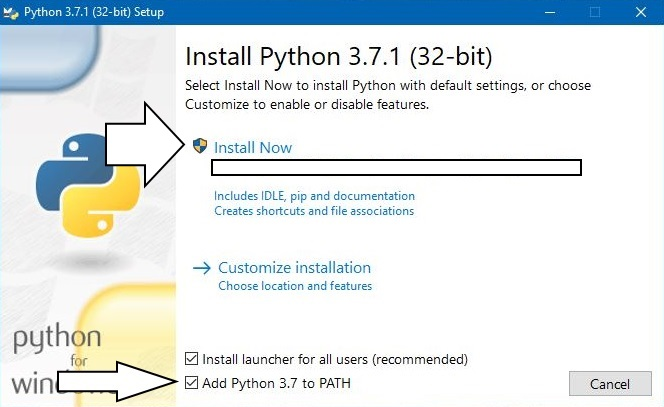
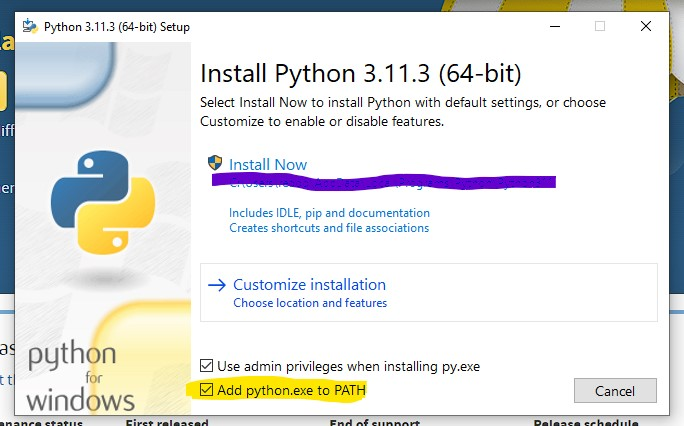
updated up to sec 2 with LTT advice

diff --git a/python_book/docs/02-Getting-Started.md b/python_book/docs/02-Getting-Started.md
@@ -9,13 +9,13 @@
 
 # 2 - Getting started 
 
-## Python the programming language
+## Okay but what even is Python?
 
 Python is a programming language. Essentially, a programming language is a way to 'talk' to your computer and give it instructions.
 
-Many programming languages are designed for specific tasks such as displaying things in a web browser (e.g. HTML, CSS) or doing complex math (e.g. R, MATLAB). These languages are very useful within for their respective use cases but they are generally not functionally complete.
+Many programming languages are designed for specific tasks such as displaying things in a web browser (e.g. HTML, CSS) or doing complex math (e.g. R, MATLAB). These can be useful but are somewhat limited in the scope of what they are meant to do.
 
-Python on the other hand can be considered a functionally complete programming language. That is, Python is designed for writing code to do almost anything a computer can do. In fact, there is very little that Python cannot do! You can write games, make a web server, do complex math, make Graphical User Interfaces (GUIs) and many more things. In a very real sense, the only limits are your imagination.
+Python on the other hand can be considered an all-purpose, functionally complete programming language. That is, Python is designed for writing code to do almost anything a computer can do. In fact, there is very little that Python cannot do! You can write games, make a web server, do complex math, make Graphical User Interfaces (GUIs) and many more things. In a very real sense, the only limits are your imagination. In this book, we will cover some of these things and how you can take the basics you learn here and apply them to your use case of interest.
 
 ## What will I do with Python?
 
@@ -25,9 +25,9 @@ For example, I am a chemical engineer and was introduced to Python in the contex
 
 ![Data Acquisition Software Written in Python](./media/tada_example.png)
 
-I wrote this software in Python and you can too. However, I also am interested in making games as a hobby. This is also possible in Python.
+I wrote this software in Python and you can too. Or you can write something else that interests you! You want to make games? You want to make a web server? You want to do something else, perhaps something you haven't even thought of yet?
 
-Before anything else, take some time to think about what you want out of Python. It is possible at this point that even after serious thought you just don’t know yet what you want out of Python. If this is the case for you don’t worry too much about it right now but **keep this question in your mind as you learn**. You may find something that interests you. I bring this up because your learning will accelerate in a profound way if you have a goal in mind or an idea or project you can be passionate about. Also, you will have an opportunity, before finishing this book, to bring an idea to life in code.
+Before anything else, take some time to think about what you want out of Python. It is possible at this point that even after serious thought you just don’t know yet what you want out of Python. If this is the case for you don’t worry too much about it right now but **keep this question in your mind as you learn**. You may find something that interests you. Your learning will accelerate in a profound way if you have a goal in mind or an idea or project you can be passionate about. Also, you will have an opportunity, before finishing this book, to bring an idea to life in code.
 
 ## What kind of computer do I need?
 
@@ -35,32 +35,30 @@ You may wonder if you computer can handle Python programming. I will simply say 
 
 The only real requirement is that you should have at least 2GB of storage space on your computer to allow space for the Python installation, the code you will write, and your text editor. (This is much more than you will actually need but it is best to be conservative.)
 
-## What you need to know before beginning
+## But I know nothing about computers! What do I need to know for this course?
 
 I do make some assumptions about your knowledge of computers. If any of the following do not apply to you please familiarize yourself with them before proceeding:
 
 - I can use a web browser to follow links and navigate the internet in this book. 
 - I am familiar with and know how to perform a search on a search engine like [google.com](https://www.google.com/).
 
-## Python Installation (Windows)
+## How do I install Python?
 
-See the notes for Linux/Unix and Mac OS X Users below if you are not using Windows.
+*See the notes for Linux/Unix and Mac OS X Users below if you are not using Windows.*
 
-- Let's start by going to <https://www.python.org/downloads/> you will see a button there. Ensure that the correct operating system is selected (e.g. Windows, Mac OS X, Linux/Unix). Click on the "Download Python 3.x.x" button to begin the download. (See image below.)
+1. Let's start by going to <https://www.python.org/downloads/> you will see a button there. Ensure that the correct operating system is selected (e.g. Windows, Mac OS X, Linux/Unix). Click on the "Download Python 3.x.x" button to begin the download. (See image below.)
 
- ![Python_download_site](./media/python_download_site.JPG)
+   ![Python_download_site](./media/python_download_site.JPG)
 
-- Once downloaded, open the file and you will see the following image. Ensure "Add Python X.X to PATH" is checked and click "Install Now". Select "Next" on the next few screens and allow it to install on your computer. (See image below.)
-  - ***Note:*** *If you want to do any custom installation (such as choose between 32 and 64 bit versions) then I'm going to assume you know what you are doing and this tutorial is not necessary for you. If you don't know what any of that means then just do as it says above and you will be fine.*
+2. Once downloaded, open the file and you will see the following image. Ensure "Add Python X.X to PATH" is checked (see highlighted in yellow below) and click "Install Now". Select "Next" on the next few screens and allow it to install on your computer. (See image below.)
 
+   ![install_scrn1](./media/install_scrn1.JPG)
 
-![install_scrn1](./media/install_scrn1.JPG)
+3. Once the installation finishes, open your terminal (for Linux/Unix and Mac OS X users; See the note above.) or Windows PowerShell (press the windows key on your keyboard and type "powershell" then select "Windows PowerShell" or "Terminal" from the list that pops up) and type in `python` into the prompt and press Enter. You should see something like:
 
-- Once the installation finishes, open your terminal (for Linux/Unix and Mac OS X users; See the note above.) or Windows PowerShell (press the windows key on your keyboard and type "powershell" then select "Windows PowerShell" from the list that pops up) and type in `python` into the prompt and press Enter. You should see something like:
+   ![Python_terminal](./media/python_terminal.JPG)
 
-![Python_terminal](./media/python_terminal.JPG)
-
-- Then type `exit()` and exit the terminal.
+4. Then type `exit()` and exit the terminal.
 
 If all of this went as described above, congratulations! You have successfully installed Python on your computer!
 
@@ -74,26 +72,25 @@ The Windows explanation above should apply to you in the same way they apply to 
 - For Linux/Unix users you can usually open your terminal by pressing `ctrl+alt+t`. If this does not work I recommend you use a search engine and find out how to do this. (Some Linux/Unix variants have unusual conventions in this regard and I cannot list all the ways to get into your terminal here.) 
 - You may find that Python 3 is already installed on your system. You can check if this is the case by just opening your terminal and typing "python3". A string of text should appear indicating that Python has started. Also you should see `>>>` at the bottom of the page. If this does not happen then you will need to go through the steps above.
 
-## Text Editor
+## What will I use to write Python code?
 
-The next thing to consider is what you will use to actually write the code. True to my coding upbringing, **I strongly discourage IDEs and IDLEs.** They are not conducive to you learning how to code and will make you dependent on them. I have met too many coders that cannot work on anything but their own **IDE** and therefore are useless if anything even remotely different comes along.
+Good question! You will NOT use something like Word. You will use a text editor. I recommend this one:
 
-I am asking for some faith from you right now. But trust me when I say that if you learn to code without an IDE you will learn better than any of your peers that use an IDE.
+- [VSCodium](https://vscodium.com/)
 
-The question then becomes 'What do I use to code?' I will offer some recommendations but please don't spend too much time agonizing over which text editor to use. They are all largely the same anyway. The only thing that in my mind are must-haves for your text editor are:
- - Syntax Highlighting for Python
- - Line Numbers
-
-If you can find a text editor that does those two things then you are in business. Feel free to use any editor that can do those two things. (Just don't use and IDE or an IDLE.) I recommend the following text editor for all platforms:
-
- - [VSCodium](https://vscodium.com/)
-
-If you can't make this text editor work for you or do not like it , here are some alternatives: 
+This is the editor I use for the majority of my coding projects. It's free and open source. It gets the job done. If you can't make this text editor work for you or do not like it, here are some alternatives: 
 
 - [Notepad++](https://notepad-plus-plus.org/) (Windows only)
-- [Atom.io](https://atom.io/)
 - [Gedit](https://wiki.gnome.org/Apps/Gedit)
-- [VSCode](https://code.visualstudio.com/)
+- [VSCode](https://code.visualstudio.com/) (this will be almost identical to VSCodium)
+
+Honestly, all you need is an editor that can **syntax highlight for Python** and **display line numbers**. So, please don't spend too much time agonizing over which text editor to use. They are all largely the same anyway.
+
+## Should I use an IDE or IDLE?
+
+Some people may try to encourage you to use and IDE or IDLE. However, true to my coding upbringing, **I strongly discourage IDEs and IDLEs.** They are not conducive to you learning how to code and will make you dependent on them. I have met too many coders that cannot work on anything but their own **IDE** and therefore are useless if anything even remotely different comes along.
+
+I am asking for some faith from you right now. But trust me when I say that if you learn to code without an IDE you will learn better than any of your peers that use an IDE.
 
 ## Let's Go!
 

diff --git a/python_book/docs/01-Intro-and-How-to-Use-This-Book.md b/python_book/docs/01-Intro-and-How-to-Use-This-Book.md
@@ -9,8 +9,6 @@
 
 # 1 - Introduction and How to Use this Book
 
-## Introduction
-
 Python changed my life. Before learning Python, computers intimidated me. Python opened up to me a world of programming that made computers into useful tools instead of necessary evils. Regardless of the reason you are reading this book right now, I hope that Python will have a similar impact on you.
 
 I am writing this book to introduce Python to newcomers to programming. If you are an experienced programmer and are looking to add Python to your repertoire, this may not be the book for you. The intent of this book is, primarily, to give a solid introduction to Python, and some introductory computer science, to those who are completely new to programming.
@@ -36,7 +34,7 @@ In this book, I aim to get you coding ASAP and constantly encourage you to try t
 
 ### You MUST do some boring stuff BEFORE you can do interesting stuff
 
-In the 1984 film "[The Karate Kid](https://www.imdb.com/title/tt0087538/plotsummary?ref_=tt_stry_pl#synopsis)", Mr. Miyagi, the teacher, doesn't start training Daniel, the protagonist, in Karate by teaching him fancy moves but instead begins by having him perform many menial tasks with no apparent point to them. It is in doing these seemingly pointless tasks that Daniel first begins to have skill in Karate.
+In the 1984 film "[The Karate Kid](https://www.imdb.com/title/tt0087538/plotsummary?ref_=tt_stry_pl#synopsis)", Mr. Miyagi, the teacher, doesn't start training Daniel in Karate by teaching him fancy moves but instead begins by having him perform many menial tasks with no apparent point to them. It is in doing these seemingly pointless tasks that Daniel first begins to have skill in Karate.
 
 Anytime you learn a new skill you must do many boring and seemingly pointless things before you can do something interesting or useful. Every discipline has this feature. I am telling you this because for me, a person with a very limited attention span, the beginning of learning programming was agonizingly slow and seemingly pointless. You may feel that way too.
 
